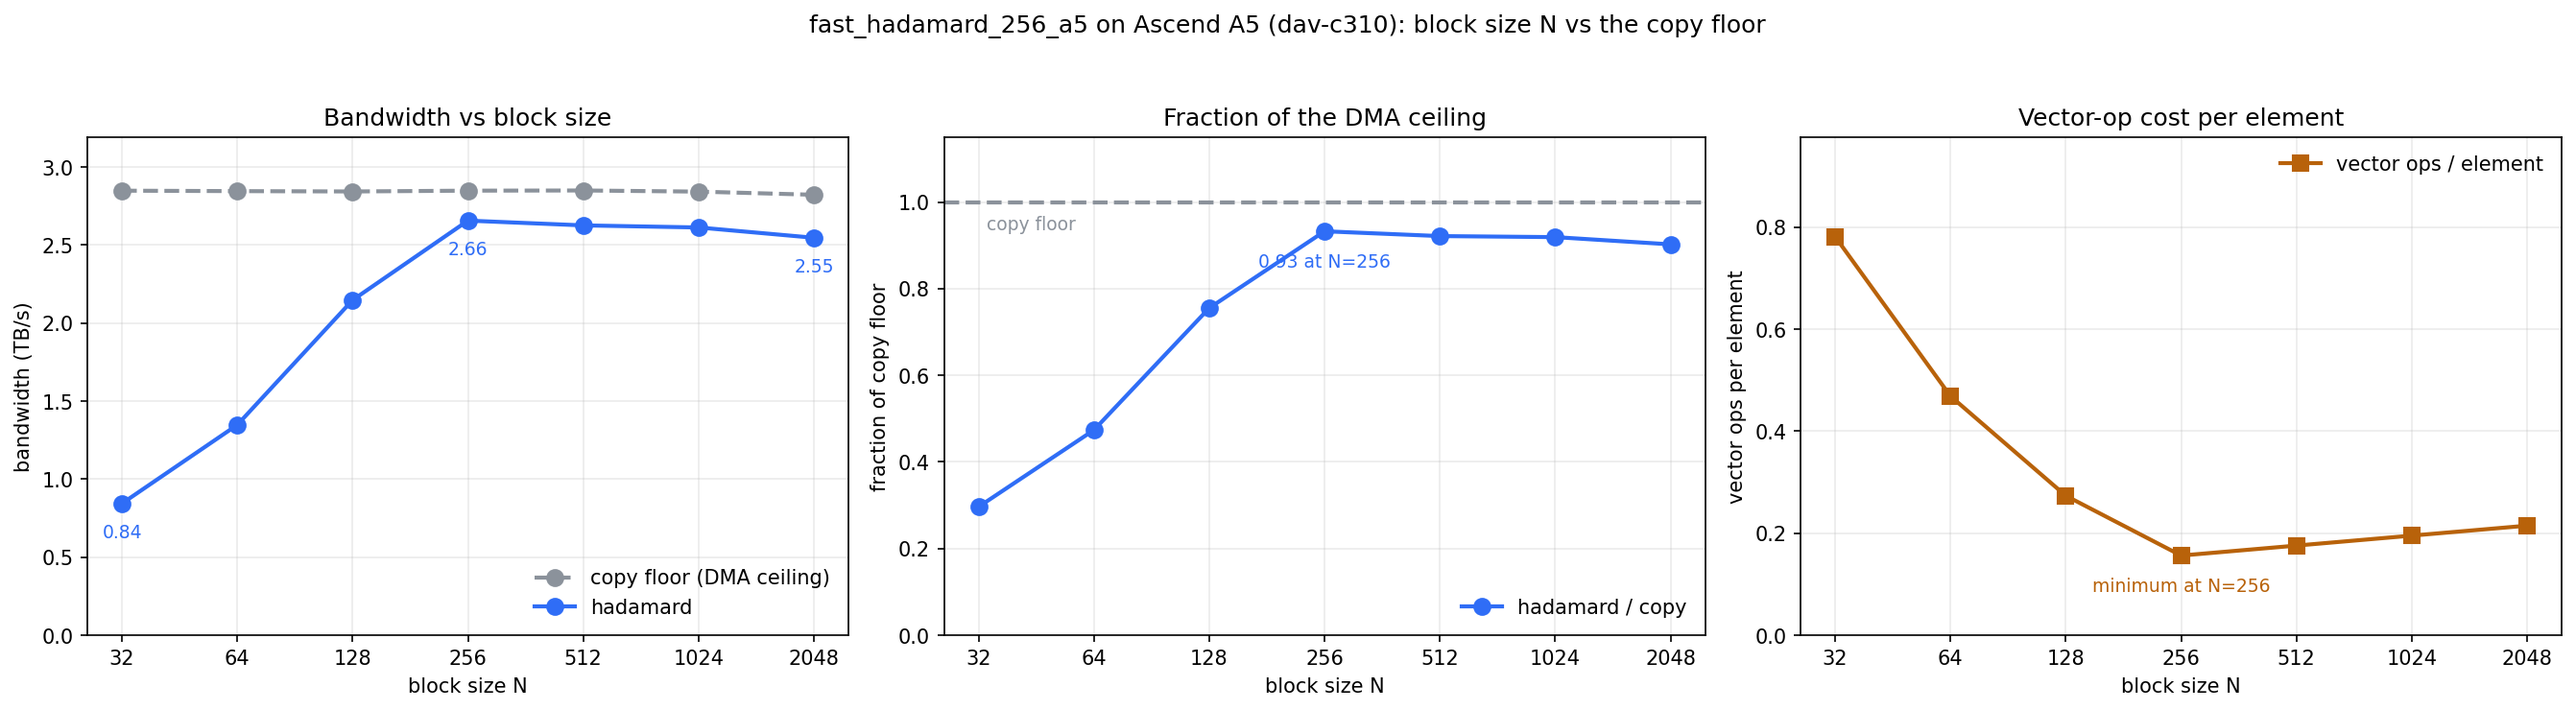
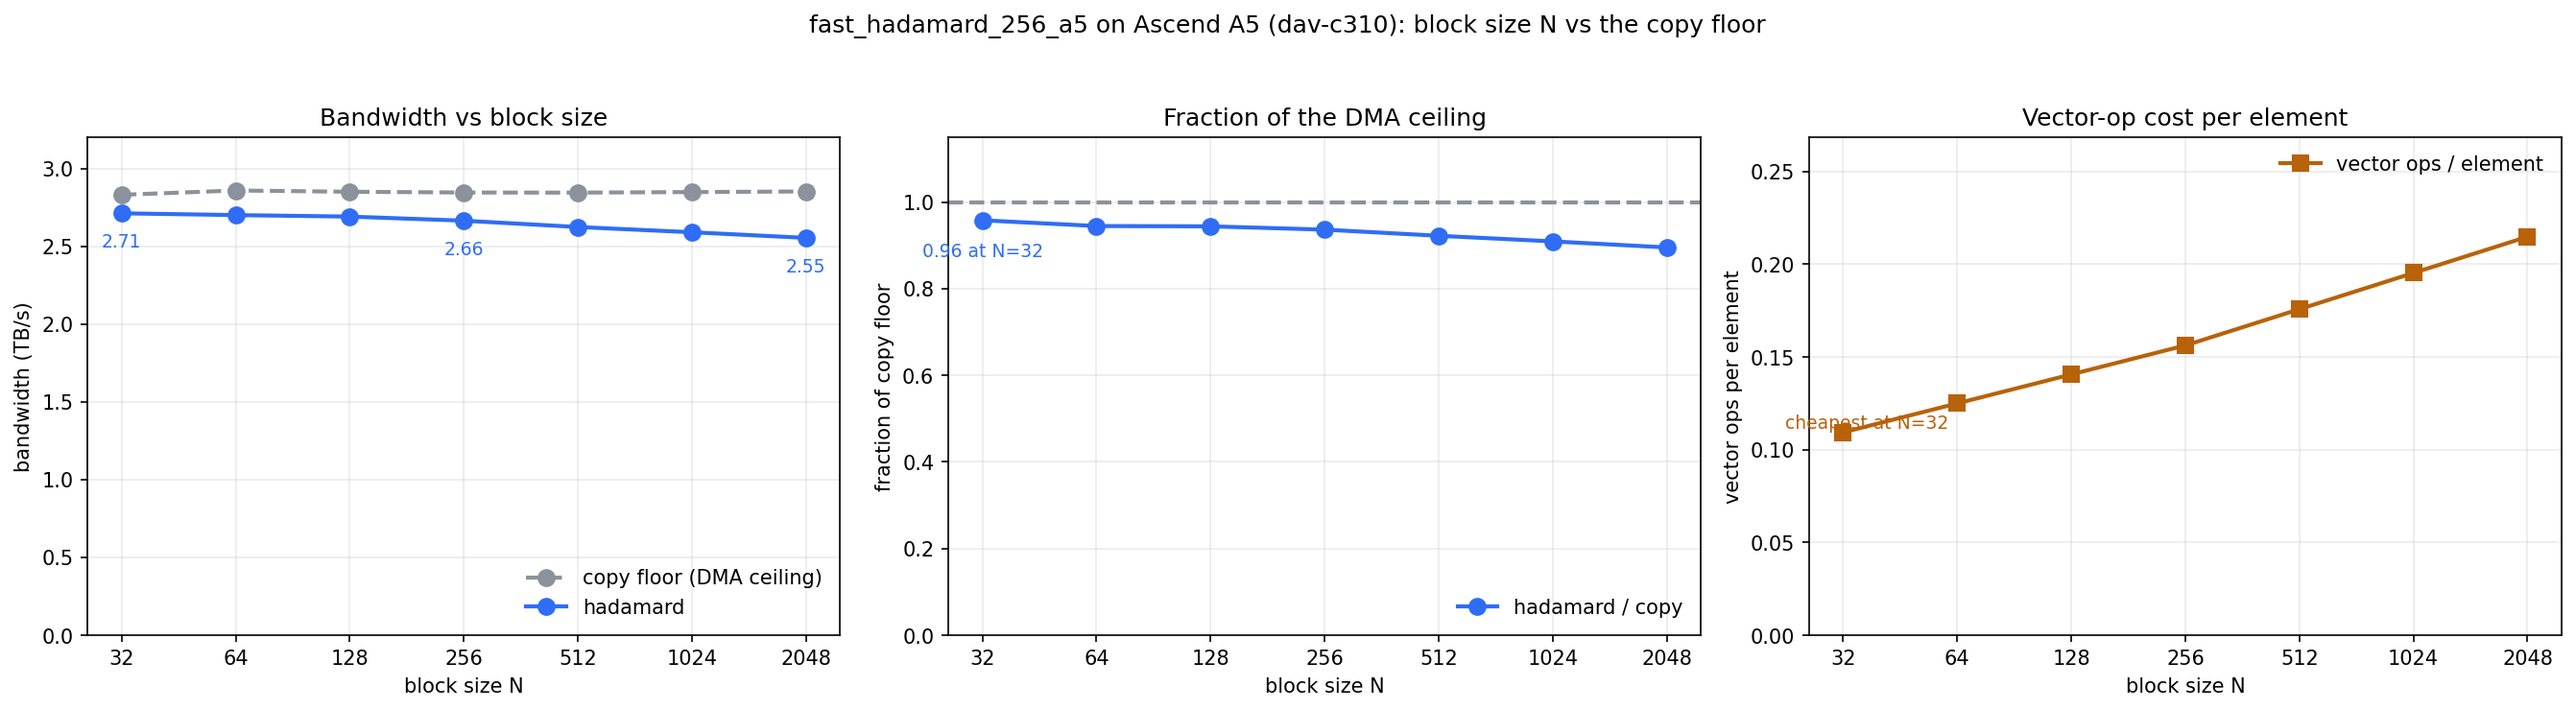
fast_hadamard_a5: pack multiple rows per window for N < 256
The block-size section previously reported N=256 as a peak with the curve falling
away on both sides. That was not a sweet spot -- it was the only size whose
half-row exactly filled one 128-element fp16 vector. At N=32 a stage drove 16 of
128 lanes and the kernel was vector-issue-bound at 0.30 of its DMA ceiling.

Packing R = 256/N rows into one window fills the vector at every N. Rows never mix
because a stage pairs only adjacent elements within a row. The packed window comes
out index-rotated-right by log2(N), undone by 8-log2(N) vdintlv -- one
register-to-register op each, fused into the last stage.

Result: memory-bound at every N. 0.96 / 0.94 / 0.94 / 0.94 / 0.92 / 0.91 / 0.90 of
copy at N = 32..2048, versus 0.30 / 0.47 / 0.76 / ... before. Measured in-process
against the old kernel: +223% at N=32, +101% at N=64, +27% at N=128, within noise
at N>=256. Output is bit-identical to the unpacked kernel at every N.

Also records the two aliasing traps, both of which produced correct-looking wrong
answers, and the new padding hazard that packing introduces.

diff --git a/fast_hadamard_a5/README.md b/fast_hadamard_a5/README.md
@@ -98,38 +98,61 @@ Deeper is marginally **slower**, and the larger budget changes nothing measurabl
 
 # Block size: how wide can one row be?
 
-`N` is a compile-time constant, and the deinterleave trick is not equally happy at every
-value of it. A stage splits the row into two half-rows of `N/2`; up to **N=256** each half
-is exactly one 128-element fp16 vector. Below that the vector is only partly filled — at
-N=32 seven eighths of every lane is wasted — and above it the row no longer fits, so it is
-processed as `CHUNKS = (N/2)/128` independent pieces.
+`N` is a compile-time constant, and one fp16 vector register holds 128 elements. A stage
+splits its work into two half-rows of `N/2`, so at **N=256** each half is exactly one full
+vector — and for a while that made N=256 look like a sweet spot with the curve falling away
+on both sides. It wasn't a sweet spot; it was the only size that happened to fit.
+
+Two changes make the vector full at every `N`. Above 256, a row is split into
+`CHUNKS = (N/2)/128` independent pieces. Below 256, `R = 256/N` **rows are packed into one
+window**, so a stage at N=32 drives all 128 lanes instead of 16. Packing works because a
+stage only pairs adjacent elements within a row: the split is on the low bit of the
+within-row index and `N` is even, so row `r`'s evens always land contiguously in group `r`
+and rows never mix.
+
+Packing does permute the result — a packed window emerges with its index **rotated right by
+log2(N)**. That sounds expensive and isn't: `vdintlv` rotates a whole 256-element
+(two-register) window right by one in a single register-to-register op, so `8 − log2(N)` of
+them finish the job, fused into the last stage using registers that are already dead. One op
+at N=128, three at N=32, against the 25–35 ops of butterfly they make possible.
 
 ![block size vs the copy floor](hadamard_nsweep.png)
 
-Measured with the tile size and the total bytes moved held constant, so `N` is the only
-variable, and with the copy floor rebuilt at each `N` so every ratio is against its own
-DMA ceiling:
-
-| N | 32 | 64 | 128 | **256** | 512 | 1024 | 2048 |
+| N | 32 | 64 | 128 | 256 | 512 | 1024 | 2048 |
 |---|---|---|---|---|---|---|---|
-| GB/s | 844 | 1348 | 2148 | **2657** | 2627 | 2613 | 2547 |
-| fraction of copy floor | 0.30 | 0.47 | 0.76 | **0.93** | 0.92 | 0.92 | 0.90 |
+| rows packed | 8 | 4 | 2 | 1 | 1 | 1 | 1 |
+| GB/s | 2712 | 2700 | 2691 | 2664 | 2624 | 2590 | 2554 |
+| fraction of copy floor | **0.96** | 0.94 | 0.94 | 0.94 | 0.92 | 0.91 | 0.90 |
+| before packing | 0.30 | 0.47 | 0.76 | 0.93 | 0.92 | 0.92 | 0.90 |
 
-The right-hand panel is the explanation: vector-op cost per element is `5·log2(N)/min(N, 512)`,
-which bottoms out exactly at N=256. Below it the kernel is vector-issue-bound; above it each
-doubling of N adds another butterfly stage over the same lanes. So N=256 is not an arbitrary
-choice — it is the one block size where the transform stops being compute-limited and starts
-being what it should be, a memory-bound copy with arithmetic hidden inside the DMA.
+The middle panel is now flat: **the transform is memory-bound at every size**, which is the
+result you want from a kernel whose arithmetic is a handful of adds. N=32 went from 0.30 to
+0.96 of its own DMA ceiling — measured in-process against the old kernel, +223%. N=128, the
+size that matters most in practice, gained +27% and comfortably clears the 2.03 TB/s cube
+kernel it used to lose to. The third panel is the reason the old curve sagged at small `N`
+and the new one doesn't: cost per element is now `(5·log2(N) + log2(R)) / 256`, which no
+longer blows up as `N` shrinks.
 
-One trap is worth recording, because it produced a *correct-looking* wrong answer. The
-obvious way to handle a wide row is to loop over chunks, loading and storing each in turn.
-That aliases: a stage's sums compact into the lower half of the row, which is exactly where
-a lower-numbered chunk still has to read from. At N=512 it nevertheless passed — the loads
-were reading input that the stores had not yet committed — and then corrupted at N=1024
-once the stores started landing in time. Forcing the stores to land turned the N=512 error
-from `8e-4` into `5.1`, which is how the aliasing was confirmed. The fix is to spread the
-unroll slots across `(row, chunk)` pairs so that every load in an iteration precedes every
-store; the hazard then cannot occur regardless of timing.
+The correctness evidence is worth stating precisely, because it is stronger than a
+tolerance. The packed kernel adds the *same operand-ordered pairs in the same stage order*
+as the per-row one, so its output should be **bit-identical**, not merely close — and it is,
+at every `N` from 32 to 2048. A relative-error check would have accepted a subtly wrong
+permutation; `torch.equal` does not.
+
+Two traps are recorded here because both produced *correct-looking* wrong answers rather
+than crashes. The first: handling a wide row with a per-chunk load/store loop aliases in
+place, because a stage's sums compact into the lower half of the row, which is exactly where
+a lower-numbered chunk still needs to read from. It passed at N=512 — the loads were reading
+input the stores had not yet committed — and corrupted at N=1024. Forcing the stores to land
+turned the N=512 error from `8e-4` into `5.1`, which is how it was confirmed. The second is
+the same shape one level up: doing the rotation through UB instead of in registers would
+re-read a just-written window and need an explicit barrier. Both are avoided structurally
+rather than by getting the timing lucky.
+
+Packing also creates one genuinely new hazard: at N=32 a window holds eight rows, and batch
+padding can occupy seven of them. "Rows never mix" says padding cannot contaminate real
+rows, so that gets asserted adversarially — fill the padding with `inf` and `nan` and require
+the real rows to come out bit-identical to an unpadded run.
 
 # Correctness
 
